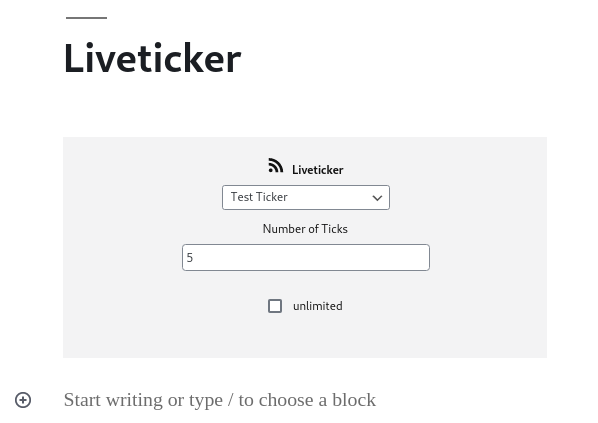
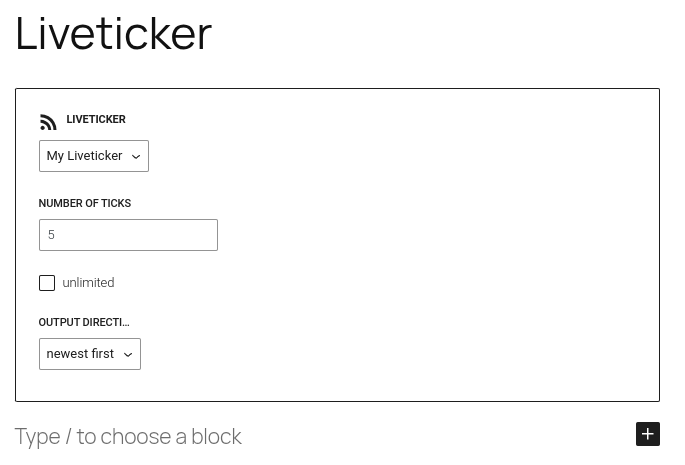
introduce new block attribute to control sorting direction (#25) (#27)

diff --git a/scripts/liveticker.js b/scripts/liveticker.js
@@ -1,5 +1,5 @@
 /**
- * Contructor of the scLiveticker object.
+ * Constructor of the scLiveticker object.
  *
  * @class
  */
@@ -73,6 +73,7 @@
 	var parseElement = function( elem, widget, n ) {
 		var list = elem.querySelector( 'ul' );
 		var last = elem.getAttribute( 'data-sclt-last' );
+		var sort = elem.getAttribute( 'data-sclt-sort' );
 
 		elem.id = 'sclt-' + n;
 
@@ -92,11 +93,16 @@
 			);
 		}
 
+		if ( 'asc' !== sort && 'desc' !== 'sort' ) {
+			sort = 'desc';
+		}
+
 		return {
 			id: n,
 			ticker: elem.getAttribute( 'data-sclt-ticker' ),
 			limit: elem.getAttribute( 'data-sclt-limit' ),
 			lastPoll: last,
+			sort: sort,
 			ticks: list,
 			isWidget: widget,
 			updating: false,
@@ -210,8 +216,11 @@
 		if ( old ) {
 			// Replace entry, if it already exists (i.e. has been updated).
 			t.ticks.replaceChild( li, old );
+		} else if ( 'asc' === t.sort ) {
+			// Append new tick as last element to container.
+			t.ticks.appendChild( li );
 		} else {
-			// Prepend new tick to container.
+			// Prepend new tick as fist element to container.
 			t.ticks.insertBefore( li, t.ticks.firstChild );
 		}
 
@@ -220,8 +229,13 @@
 		t.ticks.parentNode.setAttribute( 'data-sclt-last', u.date_gmt );
 
 		// Remove tail, if limit is set.
-		if ( 0 < t.limit ) {
-			[].slice.call( t.ticks.getElementsByTagName( 'li' ), t.limit ).forEach(
+		if ( 0 < t.limit && t.limit < t.ticks.children.length ) {
+			if ( 'asc' === t.sort ) {
+				old = [].slice.call( t.ticks.children, 0, -t.limit );
+			} else {
+				old = [].slice.call( t.ticks.children, t.limit );
+			}
+			old.forEach(
 				function( l ) {
 					l.remove();
 				}

diff --git a/scripts/block.js b/scripts/block.js
@@ -86,6 +86,10 @@
 				type: 'boolean',
 				default: false,
 			},
+			sort: {
+				type: 'string',
+				// implicit default: 'desc', left empty here for backwards compatibility of the block
+			},
 		},
 		edit: withSelect( function( select ) {
 			return {
@@ -166,6 +170,26 @@
 							},
 						}
 					),
+					el(
+						wp.components.SelectControl,
+						{
+							label: __( 'Output direction', 'stklcode-liveticker' ),
+							value: props.attributes.sort,
+							options: [
+								{
+									value: 'desc',
+									label: __( 'newest first', 'stklcode-liveticker' ),
+								},
+								{
+									value: 'asc',
+									label: __( 'oldest first', 'stklcode-liveticker' ),
+								},
+							],
+							onChange: function( val ) {
+								props.setAttributes( { sort: val } );
+							},
+						}
+					),
 				];
 			}
 
@@ -183,6 +207,7 @@
 					'data-sclt-ticker': props.attributes.ticker,
 					'data-sclt-limit': props.attributes.unlimited ? 0 : props.attributes.limit,
 					'data-sclt-last': 0,
+					'data-sclt-sort': props.attributes.sort,
 				}
 			);
 		},
